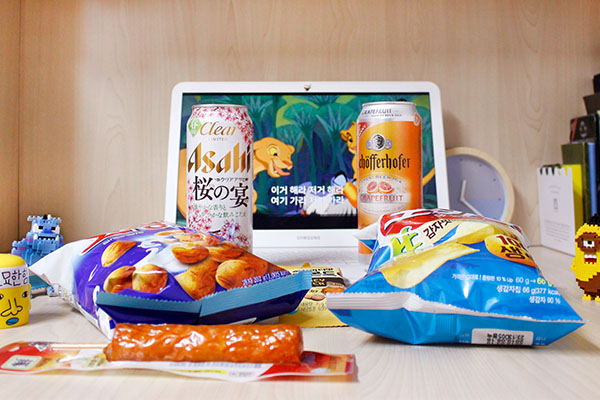
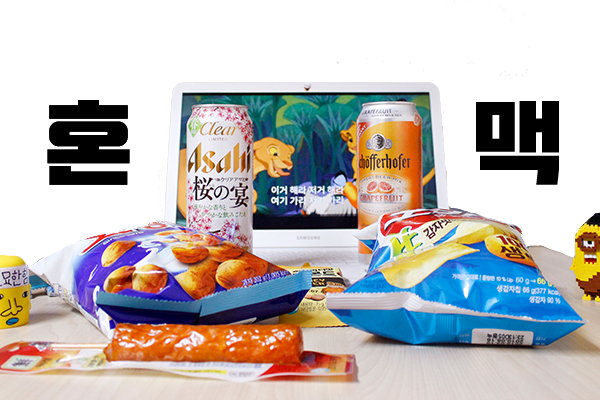
Add files via upload

diff --git a/index.html b/index.html
@@ -8,7 +8,7 @@
 <link rel="shortcut icon" href="favicon.ico" type="image/x-icon">
 <link rel="icon" href="/favicon.ico" type="image/x-icon">
 
-<meta property="og:image" content="thumbnail.jpg">
+<meta property="og:image" content="thumbnail.png">
 	<meta property="og:title" content="혼맥세트" />
 <meta property="og:description" content="즐거운 혼맥" />
 <meta property="og:type" content="website" />
